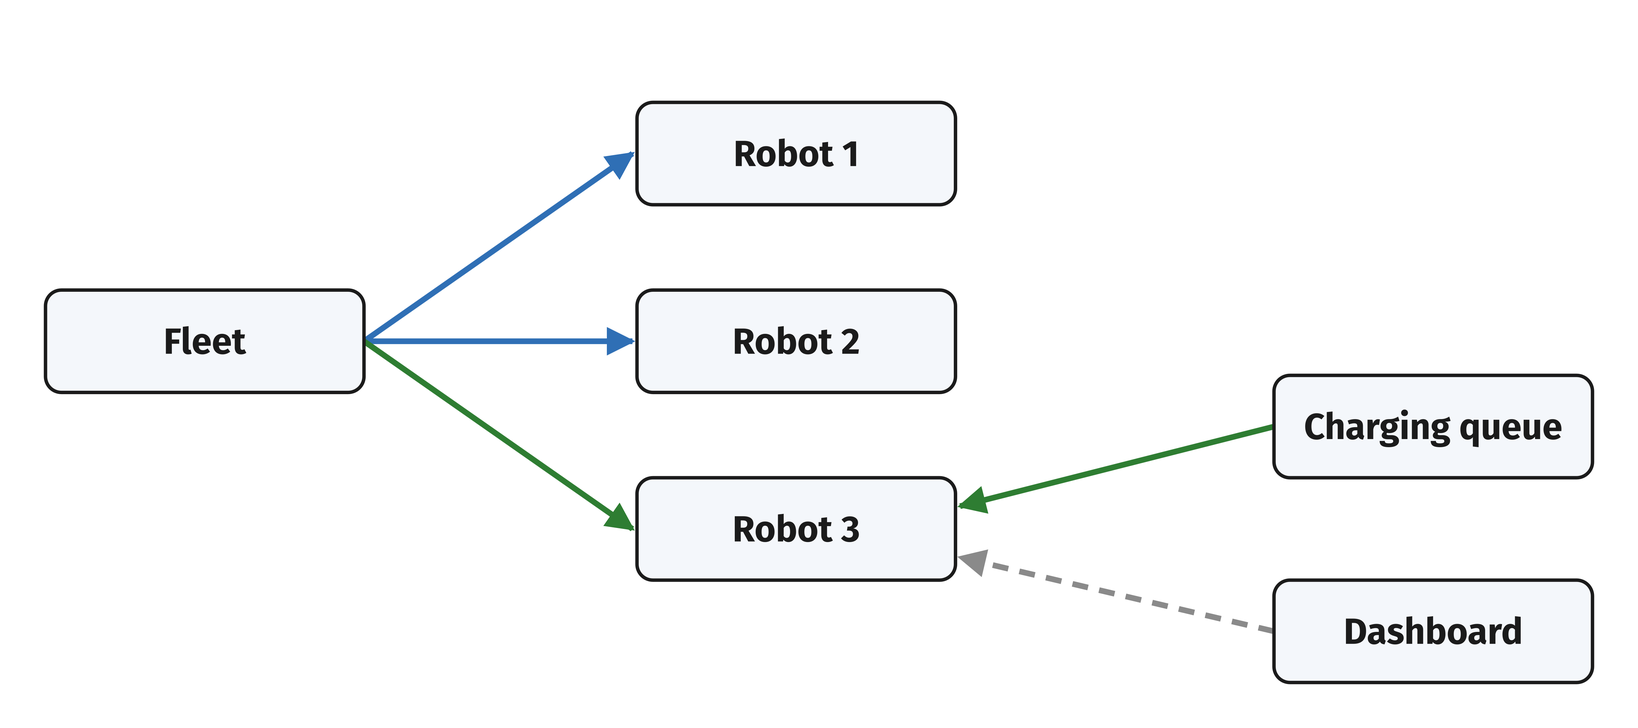
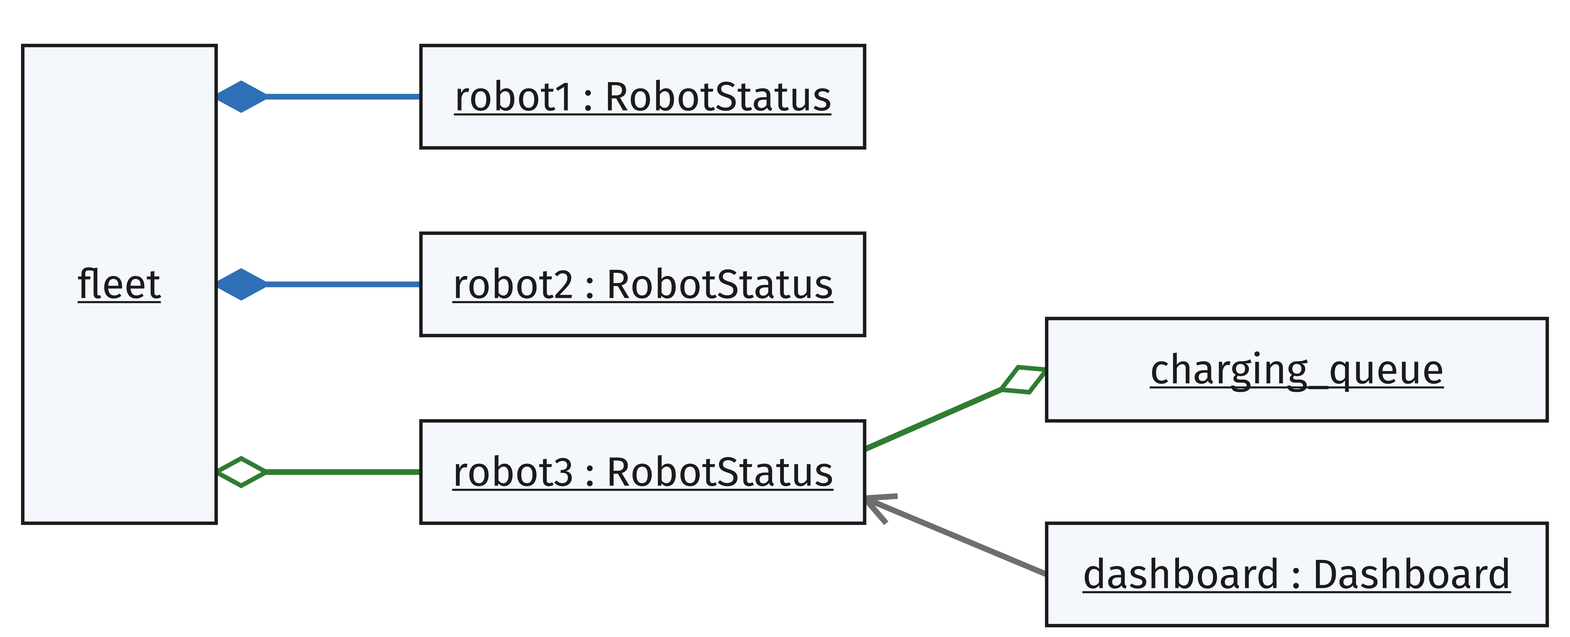
Lecture 7: follow the deck on owners, the owner map and vector capacity
- An owner keeps the object alive, and the last owner to let go deletes
  it: the lecture, overview, summary, glossary entry and quiz question 1
  said each object needs exactly one owner.
- The owner map is now a UML object diagram, with its key in the captions.
- route's capacity is 1024 (measured): the copy and move figures show the
  unused slots, and Inside a Copy totals 16384 + 16000 = 32384 bytes.
- Renamed sections (Value Categories, Lines That Compile, Deletion by the
  Last Owner, Use Counts, The Definition of std::move, One Allocation with
  make_shared), links to every Further Reading section the deck links,
  the names of the value categories, and the real g++ message for the
  unique_ptr to bool conversion.

diff --git a/docs/source/lectures/lecture7/l7_lecture.rst b/docs/source/lectures/lecture7/l7_lecture.rst
@@ -6,7 +6,7 @@ Learning Objectives
 -------------------
 
 1. Say who owns an object on the heap, and find a leak with the sanitizers.
-2. Move a ``std::vector`` or a ``std::string`` instead of copying it, and say what is left in the source.
+2. Move a ``std::vector`` instead of copying it, and say what is left in the source.
 3. Name the value category of an expression (lvalue, prvalue, xvalue) and test it with ``decltype``.
 4. Use rvalue references and ``std::move``, and write a function that takes a parameter it moves from.
 5. Own a heap object with ``std::unique_ptr``, and pass it to and return it from functions.
@@ -97,7 +97,7 @@ The Program We Will Build
 The **fleet manager** of Lecture 6, with its robots now on the heap. The structs ``Position`` and ``RobotStatus`` do not change.
 
 - The **fleet** is a list of robots. It creates each robot, and gives the memory back when the robot leaves.
-- The **charging queue** holds the robots waiting to charge. A robot in the queue is still in the fleet: it has two owners, and it must live until both let go.
+- The **charging queue** holds robots waiting to charge. A queued robot is still in the fleet: it has two owners, and lives until both let go.
 - A **dashboard** shows one robot. It must notice when that robot is gone, but it must not keep the robot alive.
 
 .. note::
@@ -105,16 +105,16 @@ The **fleet manager** of Lecture 6, with its robots now on the heap. The structs
    Three kinds of ownership: one owner, several owners, and an observer that owns nothing. Each one gets its own smart pointer today.
 
 .. figure:: /_static/images/l7/owner_map.png
-   :alt: Six rounded boxes joined by arrows, with nothing written on the arrows. On the left, a box labeled Fleet. In the middle, three boxes labeled Robot 1, Robot 2 and Robot 3, one above the other. On the right, a box labeled Charging queue and, below it, a box labeled Dashboard. Solid blue arrows run from the Fleet to Robot 1 and to Robot 2. A solid green arrow runs from the Fleet to Robot 3, and another from the Charging queue to Robot 3. A dashed gray arrow runs from the Dashboard to Robot 3.
+   :alt: A UML object diagram of six objects, each a box with its name underlined, joined by lines with nothing written on them. On the left, a tall box labeled fleet. In the middle, three boxes labeled robot1 : RobotStatus, robot2 : RobotStatus and robot3 : RobotStatus, one above the other. On the right, a box labeled charging_queue and, below it, a box labeled dashboard : Dashboard. Blue lines with a filled blue diamond at the fleet end join the fleet to robot1 and to robot2. Green lines with an open green diamond at the owner end join the fleet to robot3 and the charging_queue to robot3. A gray line with no diamond runs from the dashboard to robot3 and ends in an open arrowhead at robot3.
    :align: center
    :width: 100%
 
-   Who owns each robot. **Solid blue arrow**: the only owner. **Solid green arrow**: one of several owners. **Dashed gray arrow**: looks, does not own.
+   Who owns each robot, as a UML object diagram (Lecture 9): each box is one object, its name underlined. **Filled blue diamond**: the only owner. **Open green diamond**: one of several owners. **Gray arrow, no diamond**: looks, does not own.
 
 Who Owns This Robot
 -------------------
 
-The **owner** of a heap object is the code that deletes it. Each object needs exactly one owner.
+An **owner** of a heap object is code that keeps it alive. An object can have one owner or several: the last owner to let go deletes it.
 
 Rule: `Core Guidelines R.3 <https://isocpp.github.io/CppCoreGuidelines/CppCoreGuidelines#rr-ptr>`__.
 
@@ -179,7 +179,7 @@ Three Ways to Get It Wrong
 - **Dangling read**: reads an object that was already deleted. Undefined behavior.
 - The cause is the same in all three: two lists, or two paths, and no one is marked as the owner.
 
-See `Double Delete, Measured`_ under Further Reading.
+See `Double Delete, Measured`_ and `Dangling Read, Measured`_ under Further Reading.
 
 The Leak, Measured
 ^^^^^^^^^^^^^^^^^^
@@ -187,7 +187,7 @@ The Leak, Measured
 .. code-block:: cpp
 
    bool needs_charge(int id) {
-     RobotStatus* robot{make_robot(id, 64.0)};
+     RobotStatus* robot{make_robot(id, 64.0)};  // 64.0: battery_pct
      if (robot->battery_pct > 20.0) {
        return false;  // leaves without delete
      }
@@ -218,12 +218,13 @@ RAII for One Object
 **Lecture 4, Again**
 
 - A ``std::vector`` gives its memory back by itself when it goes out of scope. That is RAII: the object that holds the memory frees it in its destructor.
-- No path can forget, because leaving a scope always destroys the objects in it: a ``return`` in the middle, the end of a loop, or an exception.
+- No path can forget: leaving a scope always destroys its objects, after a ``return``, at the end of a loop, or by an exception that is caught.
 
 **The Same for One Object**
 
 - A **smart pointer** is an object that owns one heap object and deletes it when the smart pointer is destroyed.
-- Its type says it owns, which a ``RobotStatus*`` cannot. The rest of this lecture: one owner (``std::unique_ptr``), several owners (``std::shared_ptr``), and an observer (``std::weak_ptr``).
+- Its type says it owns, which a ``RobotStatus*`` cannot.
+- Today: ``std::unique_ptr`` for one owner, ``std::shared_ptr`` for several, ``std::weak_ptr`` for an observer.
 
 .. note::
 
@@ -280,29 +281,30 @@ Inside a Copy
 ^^^^^^^^^^^^^
 
 .. figure:: /_static/images/l7/vector_copy.png
-   :alt: Two blue Stack boxes side by side, named route and copied, each with three fields, begin, end and capacity. Below each one is its own red Heap block labeled 1000 Position, 16000 bytes. Three blue arrows drop from each box's fields to its own block: begin to the first cell, end and capacity both to the end of the last cell. No arrow joins the two sides.
+   :alt: Two blue Stack boxes side by side, named route and copied, each with three fields, begin, end and capacity. Below each one is its own red Heap block, and three blue arrows drop from each box's fields to its own block. Under route, the block is labeled 1024 Position, 16384 bytes, and its last part is shaded gray and marked 24 free: begin points to the first cell, end to the start of the gray part, and capacity to the end of the block. Under copied, the block is labeled 1000 Position, 16000 bytes, with no gray part: begin points to the first cell, and end and capacity both to the end of the last cell. No arrow joins the two sides.
    :align: center
    :width: 100%
 
-   A ``std::vector`` and its copy: each one owns its own block.
+   A ``std::vector`` and its copy: each one owns its own block. Gray: unused slots of ``route``'s capacity.
 
 - After ``std::vector<Position> copied{route}``, each vector holds three pointers into its own block (`Handing a Route to a Robot`_: the two ``data()`` differ).
-- Two blocks of 16000 bytes now hold the same 1000 waypoints: 2 × 16000 = 32000 bytes.
+- ``push_back`` grew ``route`` to capacity 1024 (measured): 1024 × 16 = 16384 bytes, 24 unused (gray).
+- The copy allocates 1000 × 16 = 16000 bytes. Total: 16384 + 16000 = 32384 bytes.
 - Each vector frees its own block when it goes out of scope.
 
 Inside a Move
 ^^^^^^^^^^^^^
 
 .. figure:: /_static/images/l7/vector_move.png
-   :alt: Two panels separated by a thin line, tagged 1 and 2. Panel 1: a blue Stack box named route with three fields, begin, end and capacity. Three blue arrows drop from the fields to a red Heap block below, labeled 1000 Position, 16000 bytes: begin to the left end of its first cell, end and capacity both to the right end of its last cell. Panel 2: the same Stack box named route, its three fields now reading nullptr, with no arrows. Below it a second Stack box named moved, with the same three fields, and three blue arrows from them to a red Heap block labeled 1000 Position, 16000 bytes, pointing the same way as in panel 1.
+   :alt: Two panels separated by a thin line, tagged 1 and 2. Panel 1: a blue Stack box named route with three fields, begin, end and capacity. Three blue arrows drop from the fields to a red Heap block below, labeled 1024 Position, 16384 bytes, its last part shaded gray and marked 24 free: begin to its first cell, end to the start of the gray part, and capacity to the end of the block. Panel 2: the same Stack box named route, its three fields now reading nullptr, with no arrows. Below it a second Stack box named moved, with the same three fields, and three blue arrows from them to a red Heap block labeled 1024 Position, 16384 bytes, with the same gray part, pointing the same way as in panel 1.
    :align: center
    :width: 100%
 
    A ``std::vector`` before and after a move. **1**: ``route`` owns the block. **2**: after the move, ``moved`` owns the block and ``route``'s three pointers are null.
 
-- **1**: ``route`` owns the block through its three pointers (Lecture 4).
+- **1**: ``route`` owns the block through its three pointers (Lecture 4). Gray: 24 unused slots.
 - **2**: after ``std::vector<Position> moved{std::move(route)}``, ``moved`` holds the same three pointers and ``route``'s are null (libstdc++, measured).
-- Only 24 bytes change hands, the size of a ``std::vector`` object, whatever the vector holds.
+- Only 24 bytes change hands: one ``std::vector`` object, whatever it holds.
 
 The Moved-from Object
 ^^^^^^^^^^^^^^^^^^^^^
@@ -323,7 +325,7 @@ The Moved-from Object
 
    C++20 **[lib.types.movedfrom]** (16.5.5.16): "Unless otherwise specified, such moved-from objects shall be placed in a valid but unspecified state."
 
-See `The Moved-from std::string`_ under Further Reading.
+See `The Moved-from std::string`_, `Move Assignment`_ and `std::exchange`_ under Further Reading.
 
 Value Categories
 ^^^^^^^^^^^^^^^^
@@ -336,9 +338,10 @@ Value Categories
        /     \      /     \
    lvalue    xvalue      prvalue
 
-- A **type** says what kind of value an expression has.
-- Its **value category** says whether it names an object, and whether that object's resources may be taken.
-- Every expression is exactly one of **lvalue**, **xvalue**, **prvalue**. A **glvalue** is an lvalue or an xvalue; an **rvalue** is an xvalue or a prvalue.
+- Every expression has a **type** and a **value category**.
+- The value category says whether the expression names an object, and whether that object's resources may be taken.
+- The three categories: **lvalue**, **xvalue**, **prvalue**. A **glvalue** is an lvalue or an xvalue; an **rvalue** is an xvalue or a prvalue.
+- Names (paragraph 3 of **[basic.lval]**): **l**, **r** once meant the left and right side of an assignment; **gl** "generalized", **pr** "pure", **x** "eXpiring".
 
 .. note::
 
@@ -379,6 +382,7 @@ lvalues
 
 .. code-block:: cpp
 
+   RobotStatus make_robot(int id);  // by value from here on
    std::vector<Position> route{make_route(3)};
    std::vector<RobotStatus> fleet{make_robot(1), make_robot(2)};
    RobotStatus* robot_ptr{&fleet[1]};
@@ -389,7 +393,7 @@ lvalues
    first_robot(fleet)  // a call that returns RobotStatus&
    "dock"              // a string literal: an array with an address
 
-- Each one names an object that lives on after the expression. ``702run week7_playground 18`` prints ``lvalue`` for all five.
+- ``702run week7_playground 18`` prints ``lvalue`` for all five. Each one names an object that lives on after the expression.
 - Test: you can take its address. ``&fleet[0]`` compiles.
 
 prvalues
@@ -434,7 +438,7 @@ xvalues
 
 .. note::
 
-   The three cases are in the note to **[basic.lval]** paragraph 4: a call "whose return type is an rvalue reference to object type", "a cast to an rvalue reference to object type", and a member access "in which the object expression is an xvalue".
+   Three of the five cases in the note to **[basic.lval]** paragraph 4: a call "whose return type is an rvalue reference to object type", "a cast to an rvalue reference to object type", and a member access "in which the object expression is an xvalue".
 
 Temporary Materialization
 ^^^^^^^^^^^^^^^^^^^^^^^^^
@@ -475,7 +479,7 @@ The ``decltype`` Test
 
    C++20 **[dcl.type.decltype]** (9.2.8.4) paragraph 1: "if E is an xvalue, decltype(E) is T&&", "if E is an lvalue, decltype(E) is T&", "otherwise, decltype(E) is the type of E".
 
-Exercise 1: Name the Category
+Exercise 1: Value Categories
 ^^^^^^^^^^^^^^^^^^^^^^^^^^^^^
 
 .. code-block:: cpp
@@ -586,7 +590,7 @@ Overloads for Copy and Move
 
    Write ``std::move`` only where the object is handed on, and do not use the source again until you assign it. Rule: `Core Guidelines ES.56 <https://isocpp.github.io/CppCoreGuidelines/CppCoreGuidelines#res-move>`__.
 
-See `How std::move Is Written`_ under Further Reading.
+See `The Definition of std::move`_ under Further Reading.
 
 ``std::move`` on a ``const`` Object
 ^^^^^^^^^^^^^^^^^^^^^^^^^^^^^^^^^^^
@@ -681,7 +685,8 @@ Creating One
    auto other{std::make_unique<RobotStatus>()};  // members take defaults
    std::cout << other->battery_pct << '\n';      // 100
 
-- ``std::make_unique<T>(args)`` creates the object on the heap and returns the ``std::unique_ptr`` that owns it. The arguments go to the object: Lecture 6's ``emplace_back(3, 64.0, ...)`` works the same way.
+- ``std::make_unique<T>(args)`` creates the object on the heap and returns the ``std::unique_ptr`` that owns it.
+- The arguments go to the object, as with Lecture 6's ``emplace_back(3, 64.0, ...)``.
 - ``->`` and ``*`` work as they do on a ``RobotStatus*``.
 - No ``new``, and no ``delete``: ``robot`` deletes its robot when it goes out of scope.
 
@@ -939,7 +944,7 @@ Returning
 - ``return robot;`` compiles although ``std::unique_ptr`` cannot be copied: a local returned by value is moved, never copied (Lecture 5, and `Return by Value, Again`_).
 - Compare `A Robot on the Heap`_: there, a ``RobotStatus*`` came back, and nothing said who must delete it. Here the type says it.
 
-Exercise 2: Which Lines Compile
+Exercise 2: Lines That Compile
 ^^^^^^^^^^^^^^^^^^^^^^^^^^^^^^^
 
 .. code-block:: cpp
@@ -981,7 +986,7 @@ Robot 3 is down to 14 %. It joins the charging queue, and it stays in the fleet.
 
 .. code-block:: cpp
 
-   std::vector<std::unique_ptr<RobotStatus>> fleet;   // slide 37
+   std::vector<std::unique_ptr<RobotStatus>> fleet;   // slide 37, 3 robots
    std::vector<RobotStatus*> charging_queue;
    charging_queue.push_back(fleet[2].get());         // looks, does not own
    fleet.erase(fleet.begin() + 2);                   // the queue dangles
@@ -1033,7 +1038,7 @@ The Control Block
 - ``std::make_shared``: one allocation of 56 bytes for both, measured. With ``new``: two, 40 and 24 bytes.
 - A copy adds 1 to the count; destroying a ``std::shared_ptr`` subtracts 1.
 
-See `make_shared Allocates Once`_ under Further Reading.
+See `One Allocation with make_shared`_ under Further Reading.
 
 ``use_count``, Step by Step
 ^^^^^^^^^^^^^^^^^^^^^^^^^^^
@@ -1056,8 +1061,8 @@ See `make_shared Allocates Once`_ under Further Reading.
 - A copy adds an owner. A move hands one owner's place to another: the count stays at 2, and ``in_queue`` is left empty.
 - ``reset()`` gives up this owner's place. The robot is deleted only when the count reaches 0.
 
-The Last Owner Frees It
-^^^^^^^^^^^^^^^^^^^^^^^
+Deletion by the Last Owner
+^^^^^^^^^^^^^^^^^^^^^^^^^^
 
 .. code-block:: cpp
 
@@ -1286,7 +1291,7 @@ See `A Dashboard of weak_ptr`_ under Further Reading.
 
    C++20 **[util.smartptr.weak.obs]** (20.11.4.5): ``expired()`` "Returns: use_count() == 0." ``lock()`` "Returns: expired() ? shared_ptr<T>() : shared_ptr<T>(\*this), executed atomically."
 
-Exercise 3: Predict the Counts
+Exercise 3: Use Counts
 ^^^^^^^^^^^^^^^^^^^^^^^^^^^^^^
 
 .. code-block:: cpp
@@ -1351,27 +1356,28 @@ Back to the Fleet
 ^^^^^^^^^^^^^^^^^
 
 .. figure:: /_static/images/l7/owner_map.png
-   :alt: Six rounded boxes joined by arrows, with nothing written on the arrows. On the left, a box labeled Fleet. In the middle, three boxes labeled Robot 1, Robot 2 and Robot 3, one above the other. On the right, a box labeled Charging queue and, below it, a box labeled Dashboard. Solid blue arrows run from the Fleet to Robot 1 and to Robot 2. A solid green arrow runs from the Fleet to Robot 3, and another from the Charging queue to Robot 3. A dashed gray arrow runs from the Dashboard to Robot 3.
+   :alt: A UML object diagram of six objects, each a box with its name underlined, joined by lines with nothing written on them. On the left, a tall box labeled fleet. In the middle, three boxes labeled robot1 : RobotStatus, robot2 : RobotStatus and robot3 : RobotStatus, one above the other. On the right, a box labeled charging_queue and, below it, a box labeled dashboard : Dashboard. Blue lines with a filled blue diamond at the fleet end join the fleet to robot1 and to robot2. Green lines with an open green diamond at the owner end join the fleet to robot3 and the charging_queue to robot3. A gray line with no diamond runs from the dashboard to robot3 and ends in an open arrowhead at robot3.
    :align: center
    :width: 100%
 
-   The fleet with its smart pointers. **Solid blue arrow**: ``std::unique_ptr``. **Solid green arrow**: ``std::shared_ptr``. **Dashed gray arrow**: ``std::weak_ptr``.
+   The fleet with its smart pointers. **Filled blue diamond**: ``std::unique_ptr``. **Open green diamond**: ``std::shared_ptr``. **Gray arrow, no diamond**: ``std::weak_ptr``.
 
-- One ``std::vector`` holds one type. Once robot 3 is shared, the fleet holds a ``std::shared_ptr`` for every robot (:ref:`l7-shared-creating-one`), and robots 1 and 2 simply have one owner each.
+- One ``std::vector`` holds one type: once robot 3 is shared, the fleet holds a ``std::shared_ptr`` for every robot (:ref:`l7-shared-creating-one`).
+- Robots 1 and 2 still have one owner each, through that ``std::shared_ptr``.
 
 Summary
 -------
 
 **Who Owns This Robot**
 
-- The owner of a heap object is the code that must give it back. A ``T*`` cannot say it owns. A leak, a double ``delete`` and a dangling read all come from that.
+- The last owner of a heap object gives it back. A ``T*`` cannot say it owns, and that causes a leak, a double ``delete`` or a dangling read.
 - LeakSanitizer, part of ``-fsanitize=address``, reports a leak with the line that allocated it.
 
 **Move Semantics**
 
-- A move hands over what an object owns: a ``std::vector`` moves 24 bytes, not its elements. The source is left valid but unspecified: assign it before you use it again.
+- A move hands over what an object owns: 24 bytes for a ``std::vector``, not its elements. The source is valid but unspecified: assign it before reuse.
 - Every expression is an lvalue, an xvalue or a prvalue; ``decltype((e))`` tells which. ``T&&`` binds to rvalues only, and a named ``T&&`` is an lvalue.
-- ``std::move`` is a cast; the move happens where the result is taken. Not on a ``const`` object, and not on a ``return``.
+- ``std::move`` is a cast; the move happens where the result is taken. Not on a ``const`` object, and not on a returned local.
 
 **std::unique_ptr**
 
@@ -1397,7 +1403,7 @@ Double Delete, Measured
 
 .. code-block:: cpp
 
-   RobotStatus* robot{make_robot(3, 64.0)};
+   RobotStatus* robot{make_robot(3, 64.0)};  // make_robot(id, battery_pct)
    std::vector<RobotStatus*> fleet{robot};
    std::vector<RobotStatus*> idle{robot};  // the same robot
    for (RobotStatus* r : fleet) { delete r; }
@@ -1419,7 +1425,7 @@ Dangling Read, Measured
 
 .. code-block:: cpp
 
-   RobotStatus* robot{make_robot(3, 64.0)};
+   RobotStatus* robot{make_robot(3, 64.0)};  // make_robot(id, battery_pct)
    std::vector<RobotStatus*> fleet{robot};
    std::vector<RobotStatus*> idle{robot};
    for (RobotStatus* r : fleet) { delete r; }
@@ -1494,8 +1500,8 @@ Move Assignment
 
    C++20 **[utility.exchange]** (20.2.3) paragraph 1: "Effects: Equivalent to: ``T old_val = std::move(obj);`` ``obj = std::forward<U>(new_val);`` ``return old_val;``". See `cppreference: std::exchange <https://en.cppreference.com/w/cpp/utility/exchange>`__.
 
-How ``std::move`` Is Written
-^^^^^^^^^^^^^^^^^^^^^^^^^^^^
+The Definition of ``std::move``
+^^^^^^^^^^^^^^^^^^^^^^^^^^^^^^^
 
 .. code-block:: cpp
 
@@ -1578,8 +1584,7 @@ Testing for Empty
 
 .. code-block:: text
 
-   error: cannot convert 'std::unique_ptr<RobotStatus,
-          std::default_delete<RobotStatus> >' to 'bool' in initialization
+   error: cannot convert 'std::unique_ptr<RobotStatus>' to 'bool' in initialization
 
 - ``if (robot)``, ``!robot`` and ``robot == nullptr`` all test for empty. The same works for ``std::shared_ptr``.
 - The conversion to ``bool`` is ``explicit``: a condition and ``bool has_robot{other};`` use it, but the ``=`` form does not compile.
@@ -1624,8 +1629,8 @@ Testing for Empty
 
    C++20 **[unique.ptr.single.modifiers]** (20.11.1.2.5) paragraph 7, ``swap(u)``: "Invokes swap on the stored pointers and on the stored deleters of \*this and u."
 
-``make_shared`` Allocates Once
-^^^^^^^^^^^^^^^^^^^^^^^^^^^^^^
+One Allocation with ``make_shared``
+^^^^^^^^^^^^^^^^^^^^^^^^^^^^^^^^^^^
 
 .. code-block:: cpp
 

diff --git a/docs/source/lectures/lecture7/l7_index.rst b/docs/source/lectures/lecture7/l7_index.rst
@@ -7,7 +7,7 @@ L7: Smart Pointers and Move Semantics
 Overview
 --------
 
-This lecture is about who owns an object on the heap. The **owner** is the code that deletes the object, and each object needs exactly one owner. A raw pointer such as ``RobotStatus*`` cannot say that it owns, and three bugs come from that: a leak, a double ``delete``, and a dangling read. LeakSanitizer, part of ``-fsanitize=address``, finds the leak and names the line that allocated it. The lecture then covers move semantics. A move hands what one object owns to another, so a ``std::vector`` moves 24 bytes instead of copying its elements. The value category of an expression (lvalue, xvalue or prvalue) decides whether a move may happen, ``T&&`` binds only to rvalues, and ``std::move`` is a cast that marks an object as one you may take from. With moves in place, the lecture owns heap objects with smart pointers: ``std::unique_ptr`` for one owner, ``std::shared_ptr`` for several owners that share a count, and ``std::weak_ptr`` for an observer that owns nothing and breaks a reference cycle. It ends with one table for choosing a pointer. The running example is the fleet manager of Lecture 6, with its robots now on the heap: the fleet owns each robot, a robot in the charging queue has two owners, and a dashboard watches one robot without keeping it alive.
+This lecture is about who owns an object on the heap. An **owner** keeps the object alive, and an object can have one owner or several: the last owner to let go deletes it. A raw pointer such as ``RobotStatus*`` cannot say that it owns, and three bugs come from that: a leak, a double ``delete``, and a dangling read. LeakSanitizer, part of ``-fsanitize=address``, finds the leak and names the line that allocated it. The lecture then covers move semantics. A move hands what one object owns to another, so a ``std::vector`` moves 24 bytes instead of copying its elements. The value category of an expression (lvalue, xvalue or prvalue) decides whether a move may happen, ``T&&`` binds only to rvalues, and ``std::move`` is a cast that marks an object as one you may take from. With moves in place, the lecture owns heap objects with smart pointers: ``std::unique_ptr`` for one owner, ``std::shared_ptr`` for several owners that share a count, and ``std::weak_ptr`` for an observer that owns nothing and breaks a reference cycle. It ends with one table for choosing a pointer. The running example is the fleet manager of Lecture 6, with its robots now on the heap: the fleet owns each robot, a robot in the charging queue has two owners, and a dashboard watches one robot without keeping it alive.
 
 .. admonition:: Learning Objectives
    :class: learning-objectives
@@ -15,7 +15,7 @@ This lecture is about who owns an object on the heap. The **owner** is the code 
    By the end of this lecture, you will be able to:
 
    1. **Say** who owns an object on the heap, and find a leak with the sanitizers.
-   2. **Move** a ``std::vector`` or a ``std::string`` instead of copying it, and say what is left in the source.
+   2. **Move** a ``std::vector`` instead of copying it, and say what is left in the source.
    3. **Name** the value category of an expression (lvalue, prvalue, xvalue) and test it with ``decltype``.
    4. **Use** rvalue references and ``std::move``, and write a function that takes a parameter it moves from.
    5. **Own** a heap object with ``std::unique_ptr``, and pass it to and return it from functions.

diff --git a/docs/source/lectures/lecture7/l7_references.rst b/docs/source/lectures/lecture7/l7_references.rst
@@ -9,9 +9,9 @@ Lecture 7 References
 
    This lecture covered who owns an object on the heap, move semantics, and the three smart pointers of ``<memory>``:
 
-   - **Who Owns This Robot**: The owner of a heap object is the code that must give it back. A ``T*`` cannot say it owns. A leak, a double ``delete`` and a dangling read all come from that. LeakSanitizer, part of ``-fsanitize=address``, reports a leak with the line that allocated it.
+   - **Who Owns This Robot**: The last owner of a heap object gives it back. A ``T*`` cannot say it owns, and that causes a leak, a double ``delete`` or a dangling read. LeakSanitizer, part of ``-fsanitize=address``, reports a leak with the line that allocated it.
 
-   - **Move Semantics**: A move hands over what an object owns: a ``std::vector`` moves 24 bytes, not its elements. The source is left valid but unspecified: assign it before you use it again. Every expression is an lvalue, an xvalue or a prvalue, and ``decltype((e))`` tells which. ``T&&`` binds to rvalues only, and a named ``T&&`` is an lvalue. ``std::move`` is a cast, and the move happens where the result is taken. Do not use it on a ``const`` object, and do not use it on a ``return``.
+   - **Move Semantics**: A move hands over what an object owns: 24 bytes for a ``std::vector``, not its elements. The source is valid but unspecified: assign it before reuse. Every expression is an lvalue, an xvalue or a prvalue, and ``decltype((e))`` tells which. ``T&&`` binds to rvalues only, and a named ``T&&`` is an lvalue. ``std::move`` is a cast, and the move happens where the result is taken. Do not use it on a ``const`` object, and do not use it on a returned local.
 
    - **std::unique_ptr**: One owner, 8 bytes, from ``std::make_unique``. It is moved, never copied, and a moved-from one is null. Pass the object to use it, the ``std::unique_ptr`` by value to hand it over, and by reference to reseat it. Return it by value.
 

diff --git a/docs/source/lectures/lecture7/l7_quiz.rst b/docs/source/lectures/lecture7/l7_quiz.rst
@@ -30,16 +30,16 @@ Multiple Choice (Questions 1 to 10)
    In Lecture 7, what makes a piece of code the **owner** of a heap object?
 
    A. It holds a pointer to the object.
-   B. It is the code that deletes the object.
+   B. It keeps the object alive, and the last owner to let go deletes it.
    C. It called the function that created the object.
    D. It reads the object more often than any other code.
 
    .. dropdown:: Answer
       :class-container: sd-border-success
 
-      **B. It is the code that deletes the object.**
+      **B. It keeps the object alive, and the last owner to let go deletes it.**
 
-      The owner of a heap object is the code that deletes it, and each object needs exactly one owner. Holding a pointer is not enough: a ``RobotStatus*`` looks the same whether it owns the robot or only points at it. The Core Guidelines say so in R.3: "A raw pointer (a ``T*``) is non-owning". An owner needs a type that says it owns, and a smart pointer is that type.
+      An owner of a heap object is code that keeps it alive. An object can have one owner or several: the last owner to let go deletes it. Holding a pointer is not enough: a ``RobotStatus*`` looks the same whether it owns the robot or only points at it. The Core Guidelines say so in R.3: "A raw pointer (a ``T*``) is non-owning". An owner needs a type that says it owns, and a smart pointer is that type.
 
 .. admonition:: Question 2
    :class: hint
@@ -480,6 +480,6 @@ True/False (Questions 11 to 15)
 
       .. code-block:: text
 
-         error: cannot convert ‘std::unique_ptr<RobotStatus, std::default_delete<RobotStatus> >’ to ‘bool’ in initialization
+         error: cannot convert ‘std::unique_ptr<RobotStatus>’ to ‘bool’ in initialization
 
       Write ``bool has_robot{other != nullptr};`` instead. ``if (other)``, ``!other`` and ``other == nullptr`` all test for empty, and the same works for ``std::shared_ptr``.

diff --git a/docs/source/glossary/glossary.rst b/docs/source/glossary/glossary.rst
@@ -1226,7 +1226,8 @@ O
       freed. Leaks, double deletes and dangling pointers are all
       ownership mistakes, which is why C++ expresses ownership in the
       type instead: ``std::unique_ptr``, ``std::shared_ptr``, or a
-      container. The **owner** of a heap object is the code that deletes it.
+      container. An **owner** of a heap object keeps it alive; with several
+      owners, the last one to let go deletes it.
       :doc:`L3 </lectures/lecture3/l3_lecture>`,
       :doc:`L7 </lectures/lecture7/l7_lecture>`
 
